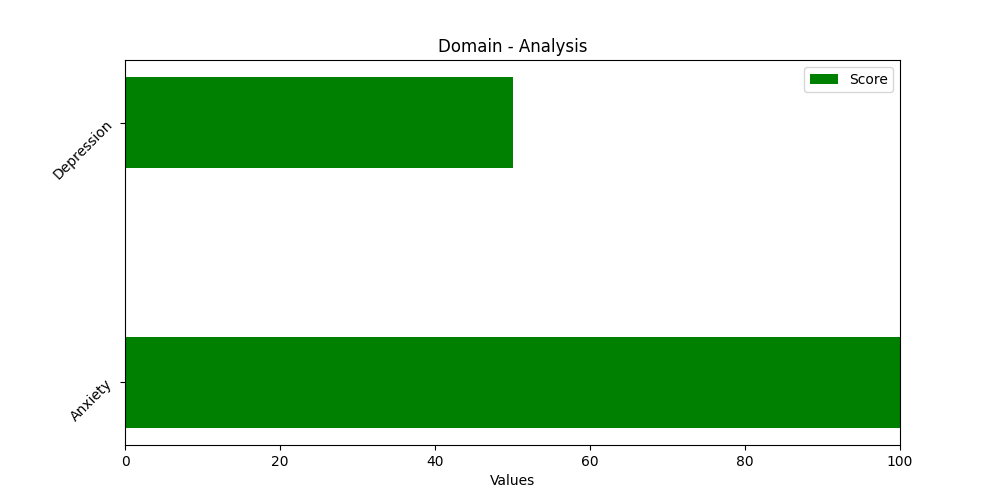
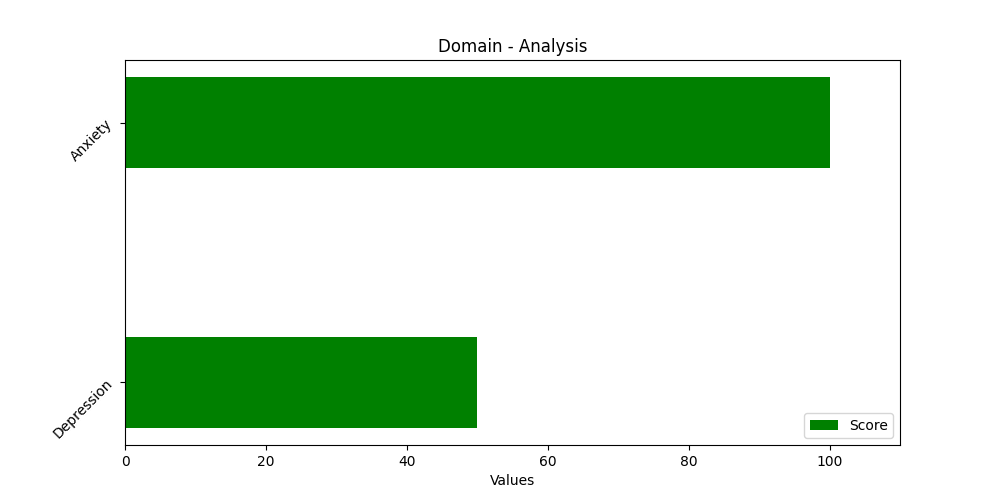
sample implementaiton of configurable styles

diff --git a/report_generator.py b/report_generator.py
@@ -3,32 +3,39 @@ from fpdf import FPDF
 from SurveyAnalysisRecommendation import user_details,final_recommendations,overall_score,overall_range
 import json
 
+#Read data JSON
 with open('data.json') as file:
     data = json.load(file)
 
-print(data["personalDetails"])
-user_details = data["personalDetails"]
-
+#Read styles JSON
 with open('styles.json') as file:
     styles = json.load(file)
 
+#Read contant JSON
 with open('contants.json') as file:
     static = json.load(file)
+
+    
+def get_font_style(config_data, style_name):
+    print("from function",config_data.get(style_name, {}))
+    return config_data.get(style_name, {})    
+
+
 
 #generate pdf 
 def create_pdf(content_dict, filename):
     # Create instance of FPDF class
     pdf = FPDF()
+
+    header_title_style = get_font_style(styles, 'header_title')
     
+
     
 # Page 1: General Information
+    
     pdf.add_page()
-    # pdf.set_font("Arial", size=12)
-    # pdf.cell(200, 10, txt="Survey Header", ln=True, align="C")
-    # pdf.ln(10)
-    # pdf.cell(200, 10, txt=f"Username: {user_details["Name"]}, Age: {user_details["Age"]}", ln=True, align="L")
-    # pdf.ln(10)
-    pdf.set_font(styles["font"]["arial"], styles["weight"]["bold"], styles["fontsize"]["large"])
+    pdf.set_font(**header_title_style)
+    # pdf.set_font(styles["font"]["arial"], styles["weight"]["bold"], styles["fontsize"]["large"])
     pdf.cell(styles["width"]["large"], styles["height"]["large"], static["header_title"], styles["border"]["none"], styles["position"]["begin"], styles["align"]["center"])
     # add logo
     pdf.image(static["logo"]["source"], static["logo"]["x"], static["logo"]["y"], static["logo"]["w"])
@@ -42,12 +49,8 @@ def create_pdf(content_dict, filename):
     pdf.cell(styles["width"]["large"], styles["height"]["medium"], f'Date: {data["response"]["Date"]}',  styles["border"]["none"], styles["position"]["begin"])
 
 
-# Page 2: Domain Percentage with Pie Chart
+# Page 2: Descriptions about Survey
     pdf.add_page()
-    # pdf.set_font("Arial", size=12)
-    # pdf.cell(200, 10, txt="Percentage of Correct Answers by Domain", ln=True, align="C")
-    # pdf.ln(10)
-    # pdf.image("domain_barchart.png", x=45, y=20, w=120)
     # about survey
     pdf.set_font(styles["font"]["arial"], styles["weight"]["bold"], styles["fontsize"]["medium"])
     pdf.cell(styles["width"]["large"], styles["height"]["medium"], static["about_title"],  styles["border"]["none"], styles["position"]["begin"])
@@ -64,12 +67,7 @@ def create_pdf(content_dict, filename):
     pdf.multi_cell(styles["width"]["zero"], styles["height"]["regular"], static["accurate_content"])
 
 
-    # Page 3: Subdomain Percentage with Pie Chart
-    # pdf.add_page()
-    # pdf.set_font("Arial", size=12)
-    # pdf.cell(200, 10, txt="Percentage of Correct Answers by Subdomain", ln=True, align="C")
-    # pdf.ln(10)
-    # pdf.image("subdomain_barchart.png", x=45, y=20, w=120)
+    # Page 3: Survey Report
     pdf.add_page()
     pdf.set_font(styles["font"]["arial"], styles["weight"]["bold"], styles["fontsize"]["medium"])
     pdf.cell(styles["width"]["large"], styles["height"]["medium"], f'{static["score"]}: {overall_score}', styles["border"]["none"], styles["position"]["begin"])
@@ -77,7 +75,8 @@ def create_pdf(content_dict, filename):
     pdf.set_font(styles["font"]["arial"], styles["weight"]["bold"], styles["fontsize"]["normal"])
     pdf.cell(styles["width"]["large"], styles["height"]["medium"], static["range"], styles["border"]["none"], styles["position"]["begin"])
 
-    pdf.set_font('Arial', '', 10)
+    #Range
+    pdf.set_font(styles["font"]["arial"], '', styles["fontsize"]["small"])
     pdf.cell(styles["width"]["small"], styles["height"]["medium"], 'Normal (0-30)',styles["border"]["thin"], styles["position"]["same"])
     pdf.cell(styles["width"]["small"], styles["height"]["medium"], 'Moderate (31-70)', styles["border"]["thin"], styles["position"]["same"])
     pdf.cell(styles["width"]["small"], styles["height"]["medium"], 'Severe (70-100)', styles["border"]["thin"], styles["position"]["same"])
@@ -90,50 +89,36 @@ def create_pdf(content_dict, filename):
     #score analysis
     pdf.set_font(styles["font"]["arial"], styles["weight"]["bold"], styles["fontsize"]["medium"])
     pdf.cell(styles["width"]["large"], styles["height"]["medium"], static["analysis"], styles["border"]["none"], styles["position"]["begin"])
-    # Add text "Domain Analysis"
+    # "Domain Analysis"
     pdf.set_font(styles["font"]["arial"], styles["weight"]["bold"], styles["fontsize"]["normal"])
     pdf.cell(styles["width"]["large"], styles["height"]["medium"], static["domainAnalysis"], styles["border"]["none"], styles["position"]["begin"])
-
-
     # Add chart for domain analysis
     pdf.image(static["domain"]["source"], static["domain"]["x"], None, static["domain"]["w"])
-    # Add text "Sub-Domain Analysis"
+    
+    #"Sub-Domain Analysis"
     pdf.set_font(styles["font"]["arial"], styles["weight"]["bold"], styles["fontsize"]["normal"])
     pdf.cell(styles["width"]["large"], styles["height"]["medium"], static["subdomainAnalysis"], styles["border"]["none"], styles["position"]["begin"])
     # Add chart for sub-domain analysis
     pdf.image(static["subdomain"]["source"], static["domain"]["x"], None, static["domain"]["w"])
    
+    # Report
     pdf.set_font(styles["font"]["arial"], styles["weight"]["bold"], styles["fontsize"]["medium"])
     pdf.cell(styles["width"]["large"], styles["height"]["medium"], static["report"], styles["border"]["none"], styles["position"]["begin"])
 
-    pdf.set_font("Arial", size=12)
+    
+    pdf.set_font(styles["font"]["arial"], '', styles["fontsize"]["normal"])
 
     for title, text in content_dict.items():
         pdf.cell(styles["width"]["large"], styles["height"]["small"], txt=title, ln=True)
         pdf.multi_cell(styles["width"]["zero"], styles["height"]["small"], txt=text)
         pdf.ln(4)
 
+    # Recommendation
     pdf.set_font(styles["font"]["arial"], styles["weight"]["bold"], styles["fontsize"]["medium"])
     pdf.cell(styles["width"]["large"], styles["height"]["medium"], static["recommendation"], styles["border"]["none"], styles["position"]["begin"])        
     
     pdf.set_font(styles["font"]["arial"], '', styles["fontsize"]["normal"])
     pdf.multi_cell(styles["width"]["zero"], styles["height"]["small"], static["recommendation_content"])
-
-
-
-    
-# Page 4: recommendation
-    # pdf.add_page()
-    # pdf.set_font("Arial", style='B',size=16)
-    # pdf.cell(200, 10, txt="Survey Report", ln=True, align="C")
-    # pdf.ln(10)
-
-    # pdf.set_font("Arial", size=12)
-
-    # for title, text in content_dict.items():
-    #     pdf.cell(200, 6, txt=title, ln=True)
-    #     pdf.multi_cell(0, 6, txt=text)
-    #     pdf.ln(5)
     
     # Save the PDF to a file
     pdf.output(filename)

diff --git a/SurveyAnalysisRecommendation.py b/SurveyAnalysisRecommendation.py
@@ -6,20 +6,11 @@ import matplotlib.pyplot as plt
 with open('data.json') as file:
     read_data = json.load(file)
 
+# Read user details JSON
 user_details = read_data["personalDetails"]
 
-# Parse JSON string into Python dictionary
-# data = json.loads(response)
+# Read Response JSON
 data = read_data["response"]
-
-# Findoverall percentage
-total_score = sum(question["Score"] for question in data["Question"])
-max_possible_score = len(data["Question"])  # Assuming maximum score of 1
-total_percentage = (total_score / max_possible_score) * 100
-print("Total Percentage:", total_percentage)
-
-
-
 
 # Find unique domain names
 domain_names = set()
@@ -44,9 +35,9 @@ for domain_name in domain_names:
     percentage = (correct_answers / total_questions) * 100
     domain_with_percentages[domain_name] = percentage
 domain_percentages = list(domain_with_percentages.values())
+
 #overall score
 overall_score = sum(domain_percentages) / len(domain_percentages)
-
 
 
 # Calculate subdomain percentages
@@ -61,27 +52,27 @@ for subdomain_name in sub_domain_names:
 subdomain_percentages = list(sub_domain_with_percentages.values())
 
 
-#Generating bar-chart
+# Generating bar-chart
 domain_categories = list(domain_with_percentages.keys())
 domain_values = list(domain_with_percentages.values())
-print("Keys:", domain_categories,domain_values)
 
+fig, ax = plt.subplots(figsize=(10, 5))
 
-fig, ax = plt.subplots(figsize=(10,5))  # Adjust the figure size as needed
-
+# Adjusting the figure size as needed
 ax.barh(domain_categories, domain_values, height=0.35, label='Score', color='green')
 
-
-# Add labels and legend
+# Adding labels and legend
 ax.set_xlabel('Values')
 ax.set_title('Domain - Analysis')
 ax.legend()
 
-ax.set_xlim(0, 100)
+# Setting the x-axis limit with extra space on the right end
+ax.set_xlim(0, max(domain_values) + 10)  # Adjust 10 as needed for the desired space
 
-# plot
-# Rotate y-axis labels
-plt.yticks(rotation=45, ha='right')  # Rotate labels 45 degrees
+# Rotating y-axis labels
+plt.yticks(rotation=45, ha='right')
+
+# Saving the plot
 plt.savefig("domain_barchart.png")
 plt.close()
 
@@ -92,7 +83,7 @@ print("Keys:", subdomain_categories,subdomain_values)
 
 fig, ax = plt.subplots(figsize=(10,5))  # Adjust the figure size as needed
 
-ax.barh(subdomain_categories, subdomain_values, height=0.35, label='Stack 1', color='green')
+ax.barh(subdomain_categories, subdomain_values, height=0.35, label='Score', color='green')
 
 
 # Add labels and legend
@@ -113,7 +104,7 @@ plt.close()
 all_category = {**domain_with_percentages,**sub_domain_with_percentages}   
 print(all_category) 
 
-# Parse JSON string into Python dictionary
+# Read Recommendation JSON
 recommendation_data = read_data["recommendation"]
 
 for i in recommendation_data["overall"]:
